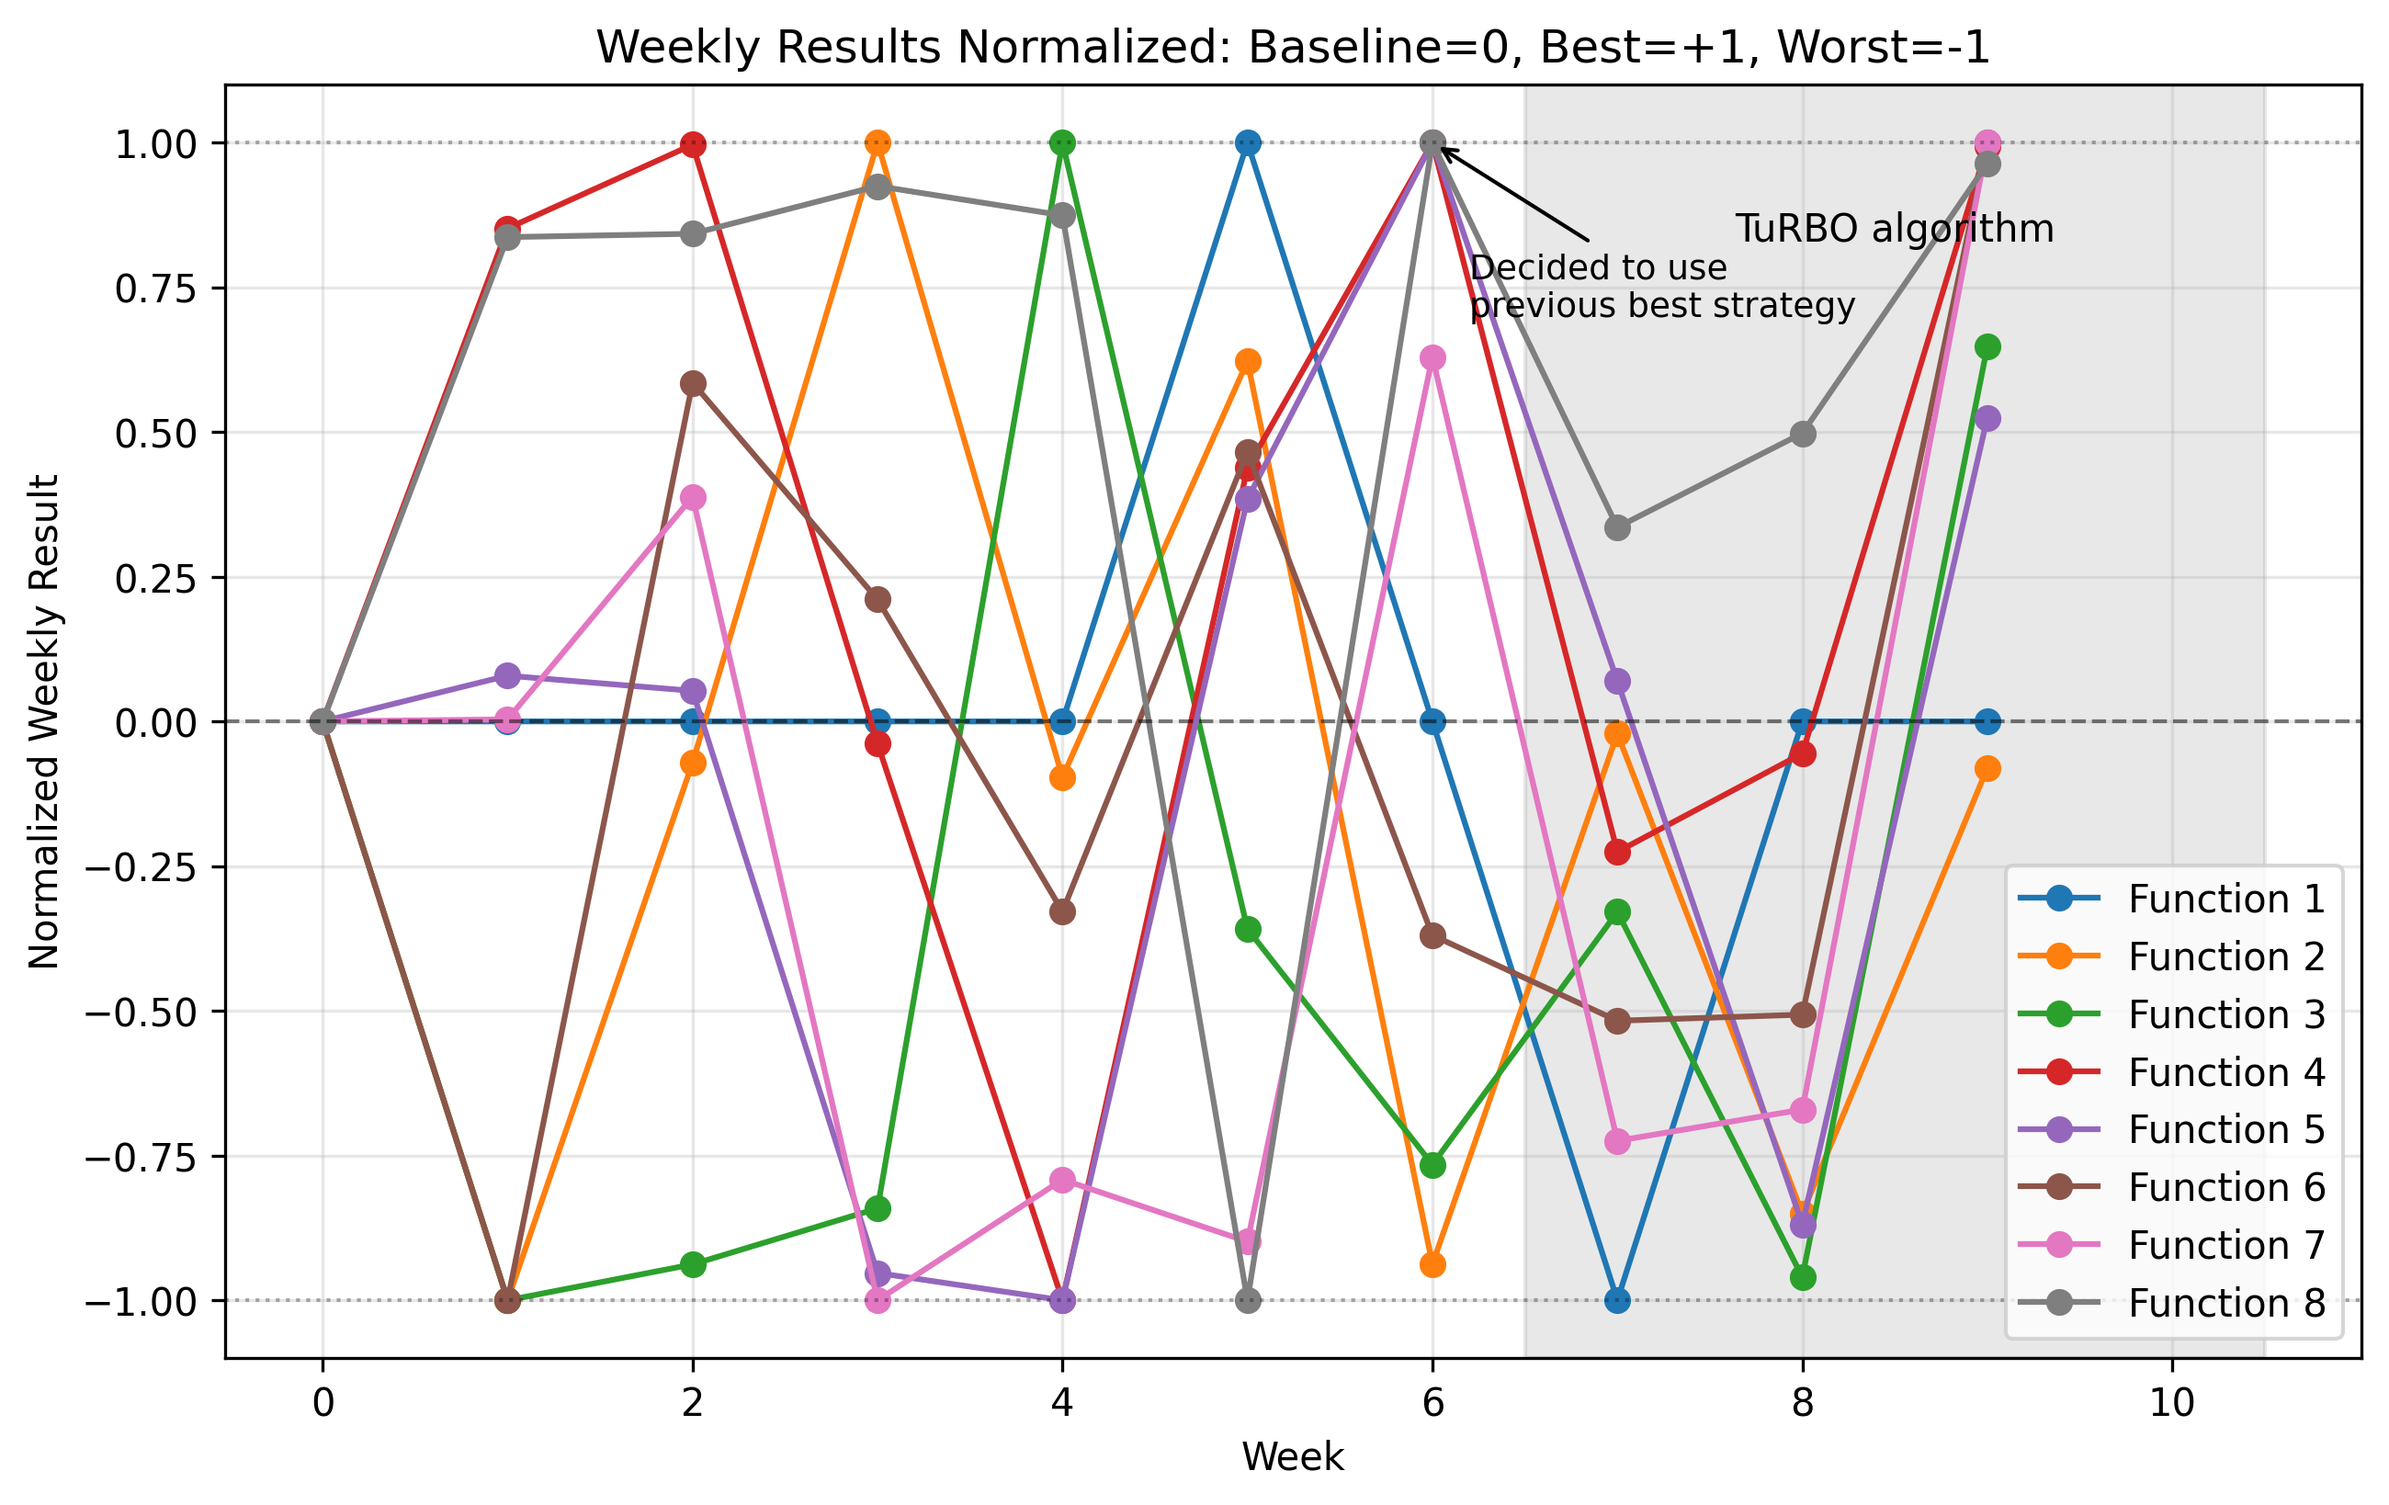
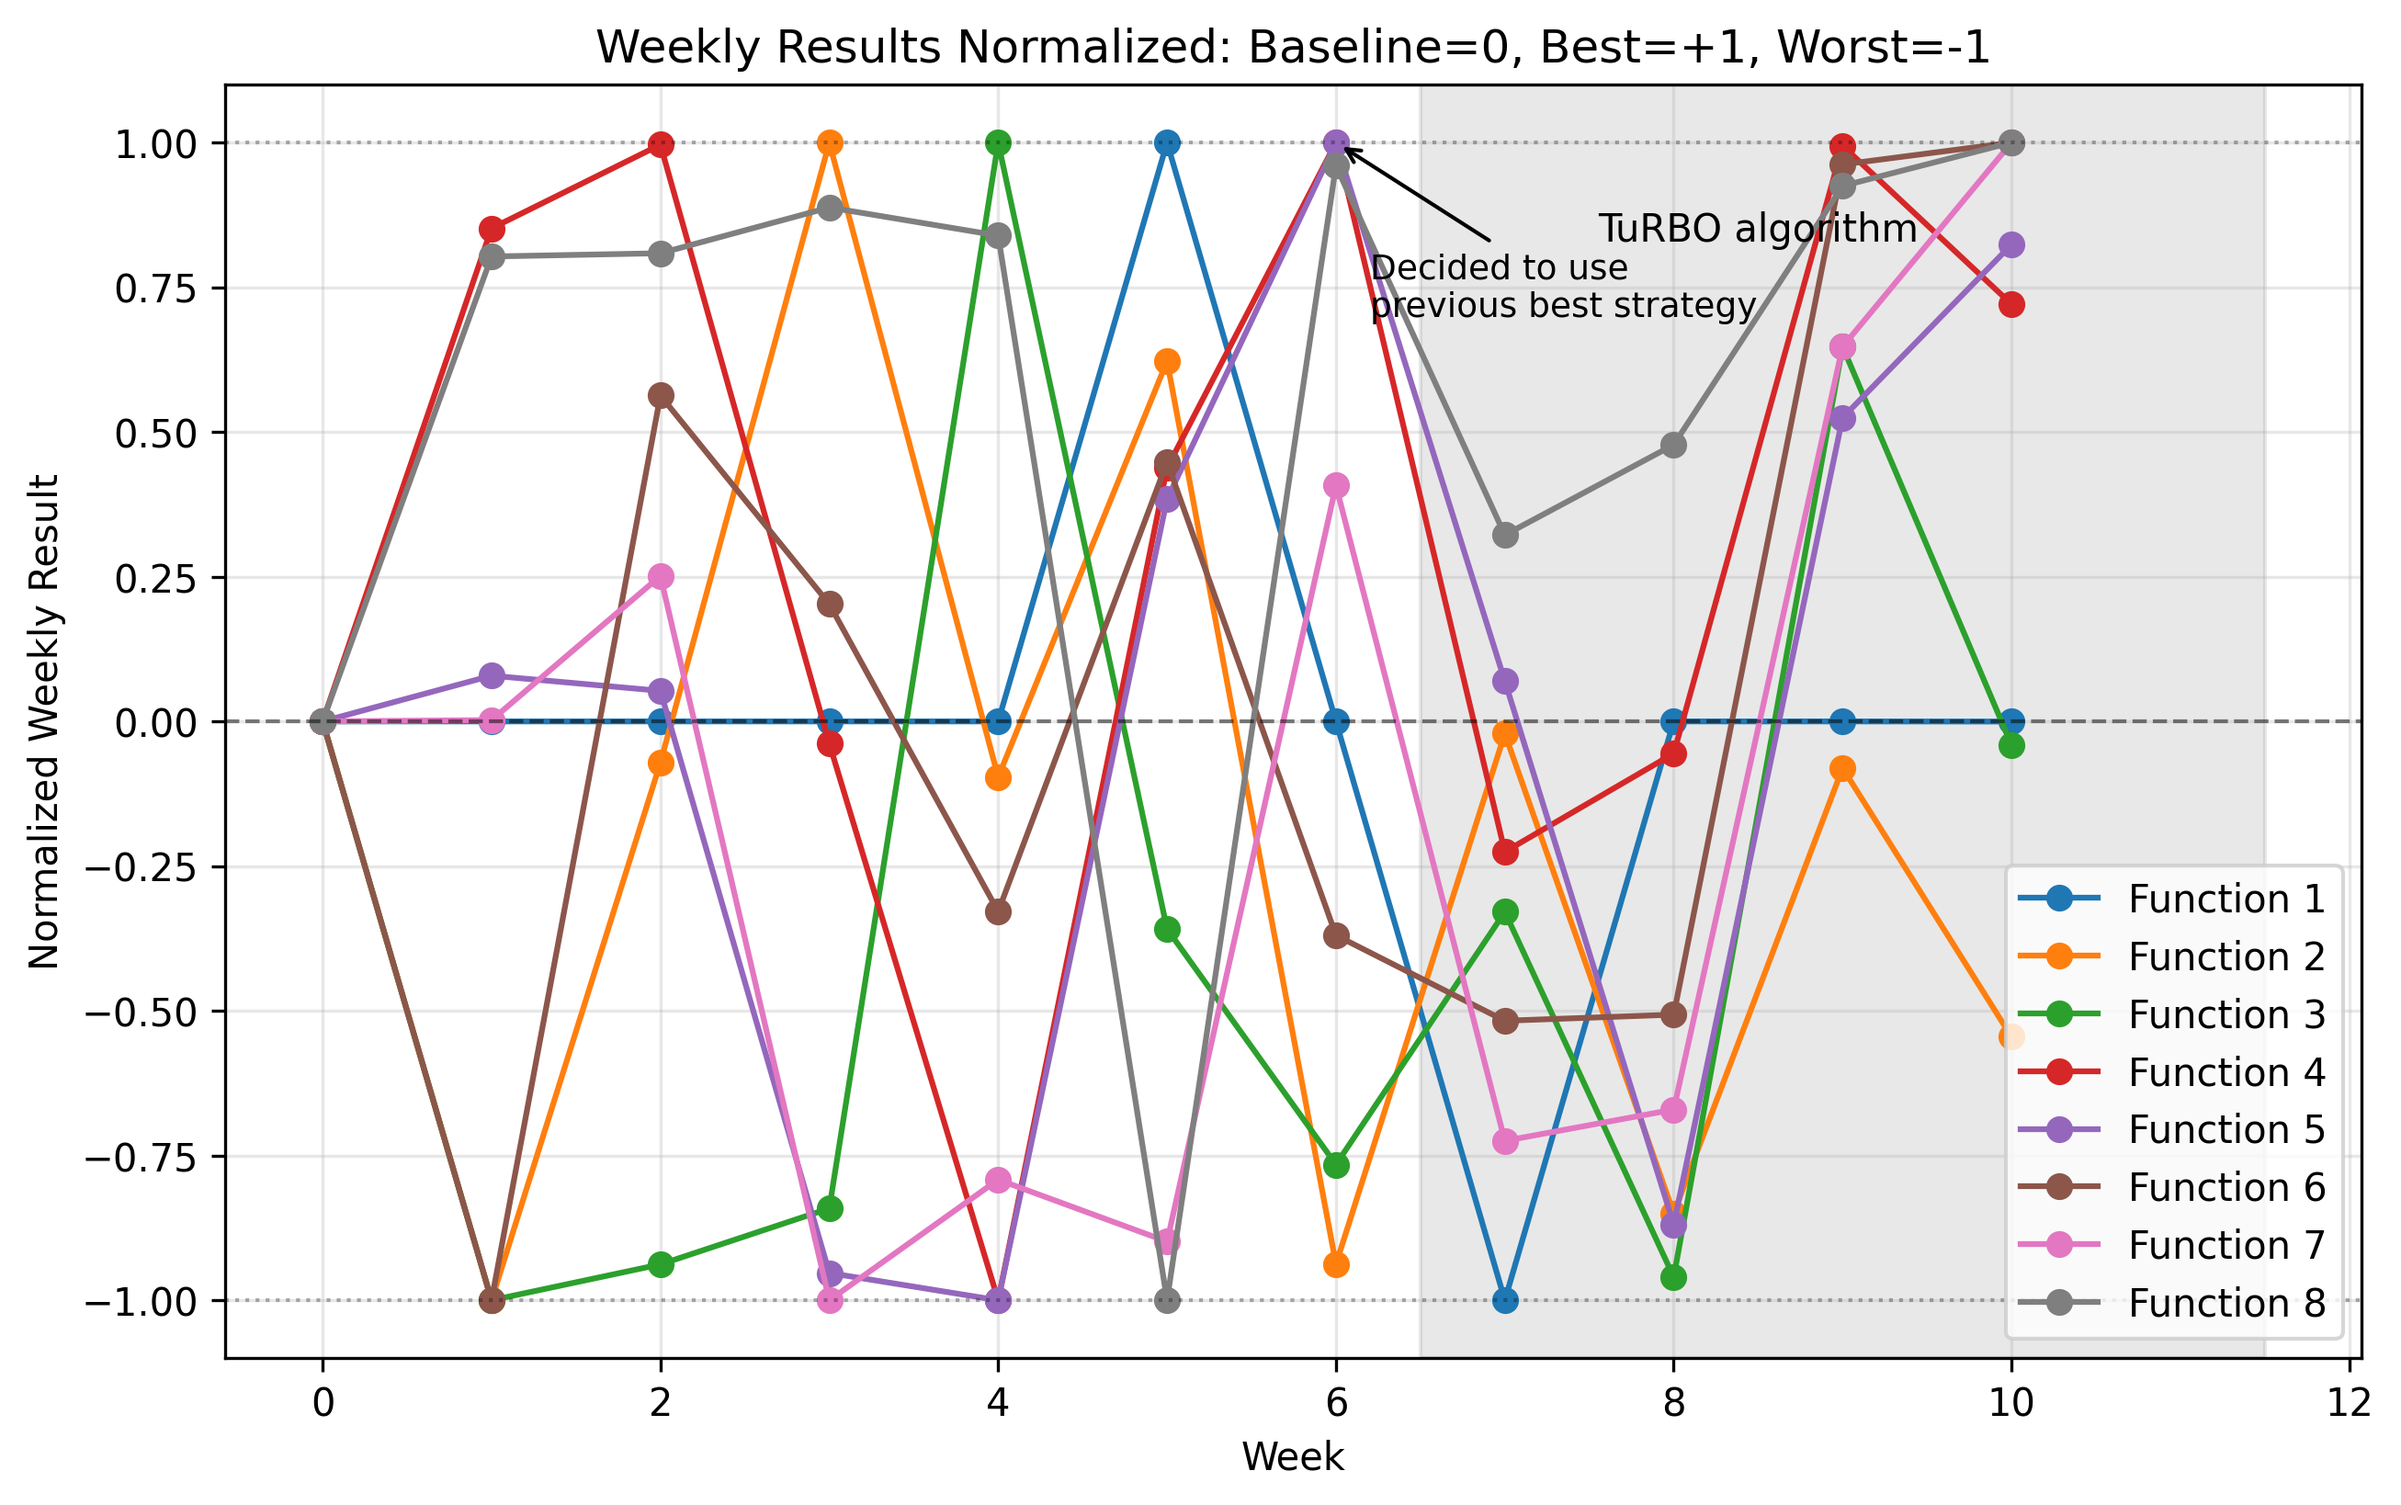
Integrate week 10 results

diff --git a/README.md b/README.md
@@ -48,7 +48,7 @@ Weekly platform results (`inputs.txt`, `outputs.txt`) are stored in `submissions
 ### Reproducing the Work
 Re-run the notebook with all data downloaded, ensuring sequential execution since sampling is simulated week by week.
 
-## Results Overview (up to week 9 submissions)
+## Results Overview (up to week 10 submissions)
 
 | Function | Baseline Best | Improved Value | % Improvement | Samples Improved |
 |----------|---------------|----------------|---------------|------------------|
@@ -57,9 +57,9 @@ Re-run the notebook with all data downloaded, ensuring sequential execution sinc
 | 3 | -0.034835313350078584 | -0.0014942495830570148 | +95.71% | 1 |
 | 4 | -4.025542281908162 | 0.640155190044084 | +115.90% | 3 |
 | 5 | 1088.8596181962705 | 8662.4825 | +695.40% | 3 |
-| 6 | -0.714264947820240 | -0.189498646431783 | 73.47% | 2 |
-| 7 | 1.364968304499199 | 1.970093222323429 | 44.33% | 4 |
-| 8 | 9.598482002566342 | 9.9659354963065 | +3.83% | 4 |
+| 6 | -0.714264947820240 | -0.168848797153551 | +76.36% | 3 |
+| 7 | 1.364968304499199 | 2.299734497234645 | +68.48% | 5 |
+| 8 | 9.598482002566342 | 9.981242508794001 | +3.99% | 5 |
 
 ### Methodology Note
 The total number of weeks (total budget) is of 13 weeks (13 queries).
